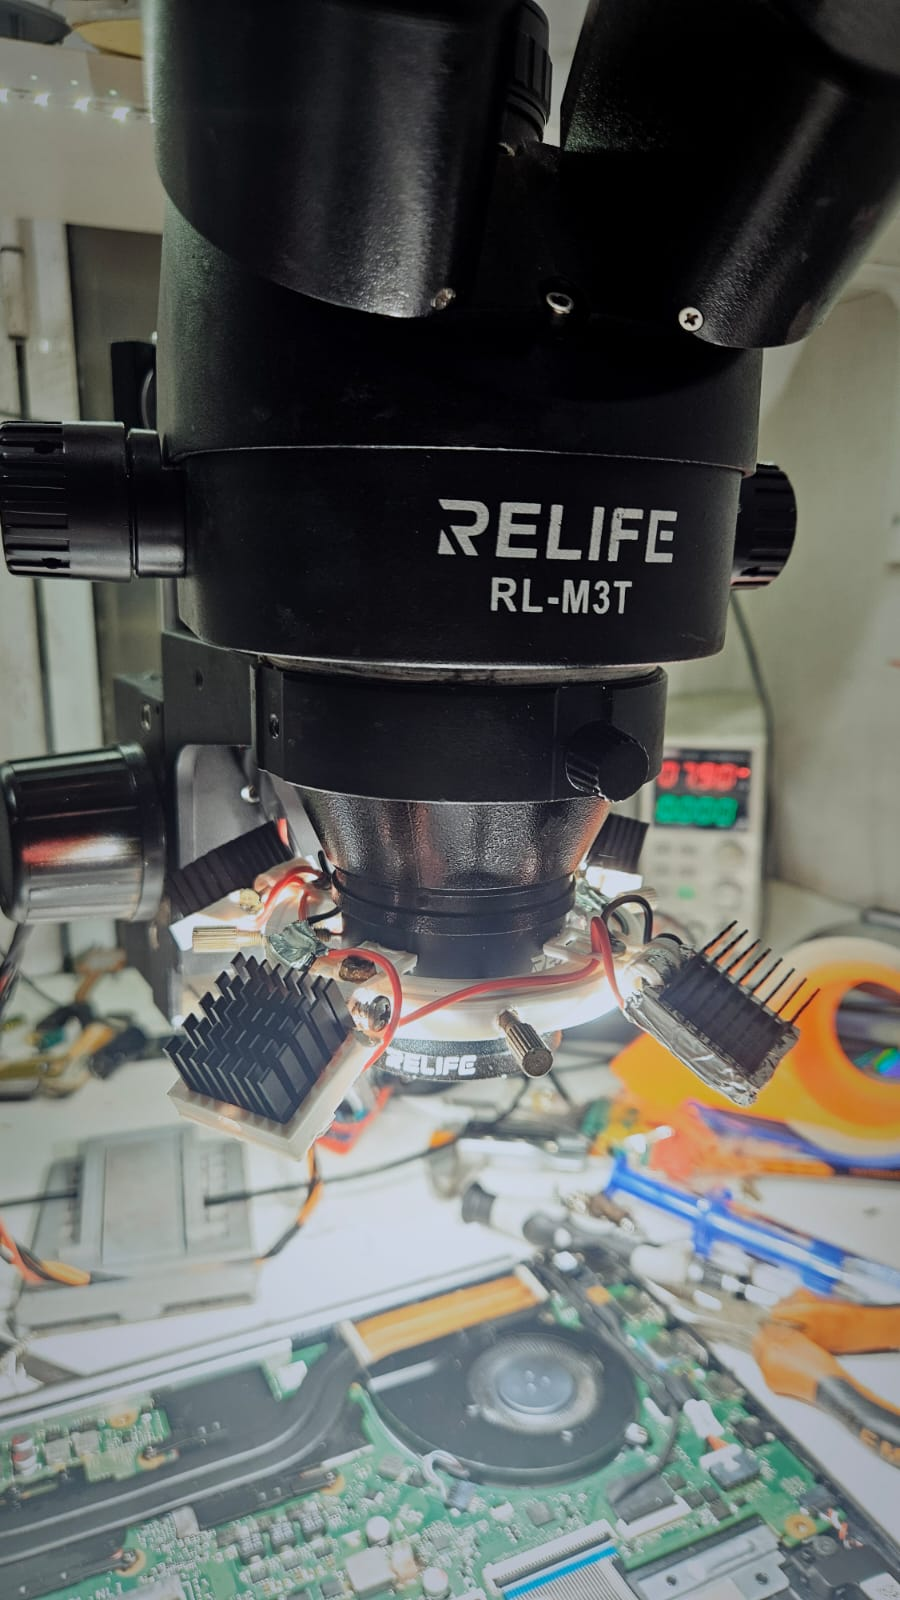
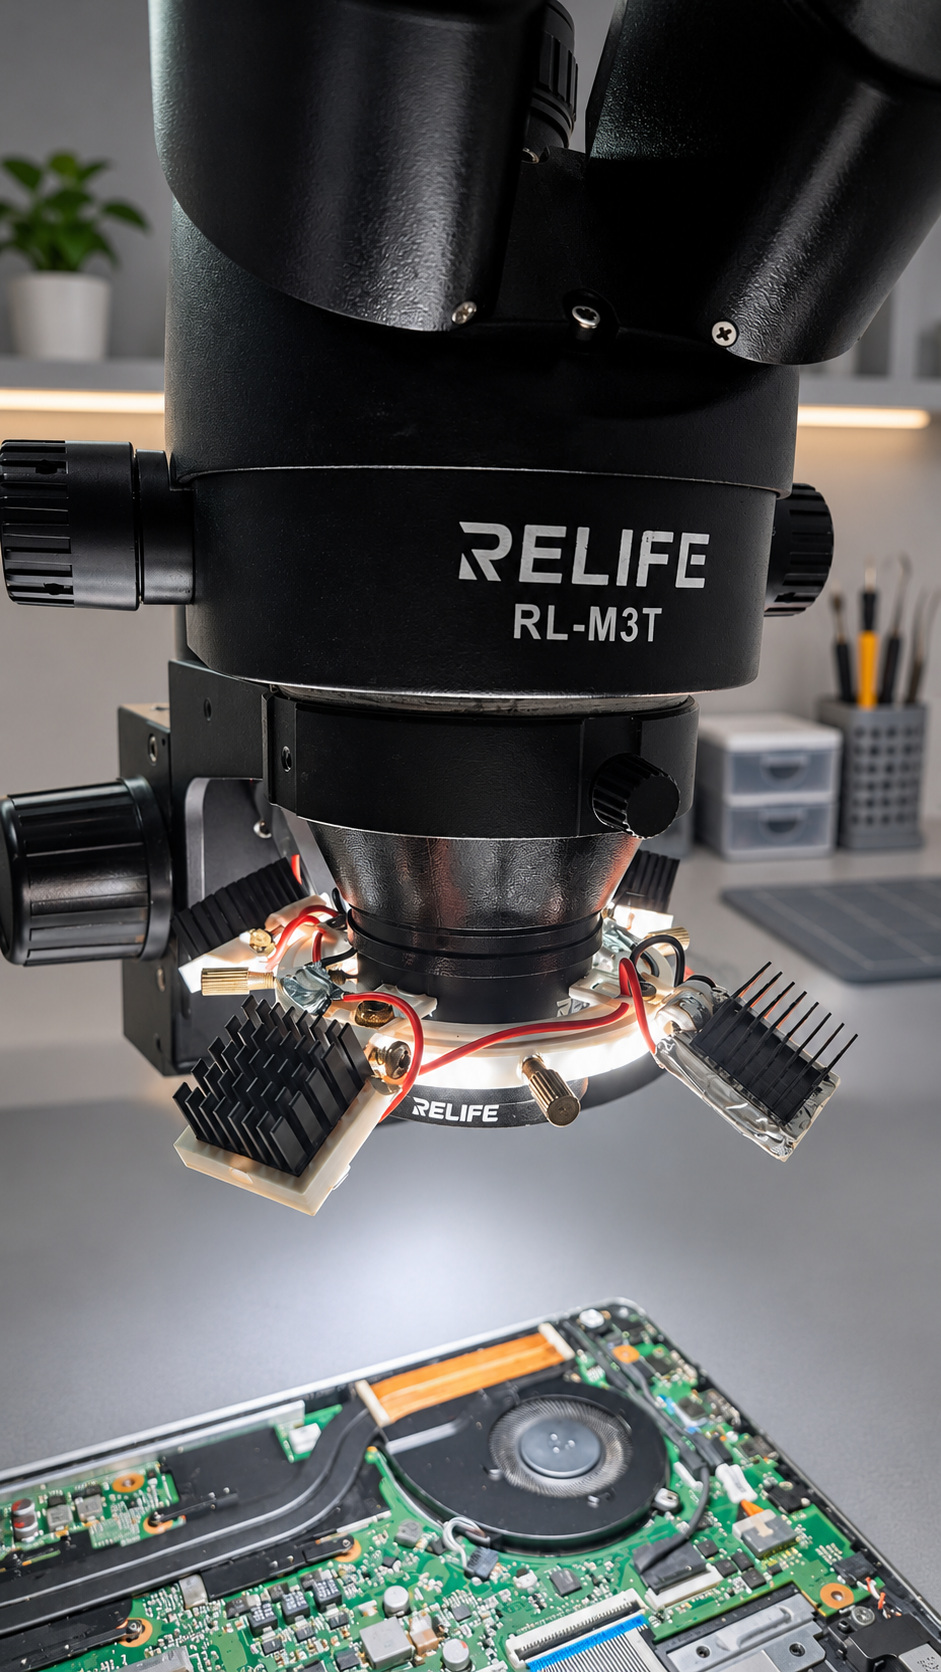
Photos: replace low-quality README image with high-resolution clean-background photo

diff --git a/docs/photos/README.md b/docs/photos/README.md
@@ -1,21 +1,15 @@
-# Fotografías originales y material visual
+# Fotografías del prototipo
 
-## Montaje real — fotografía original 900 × 1600
+## Presentación con fondo ordenado
 
-![Prototipo funcional montado en RELIFE RL-M3T](prototype-installed-relife-rl-m3t.jpg)
+![Prototipo RELIFE RL-M3T con iluminación de cuatro COB, fotografía retocada](prototype-installed-relife-rl-m3t.jpg)
 
-[Ver foto original completa](prototype-installed-relife-rl-m3t.jpg)
+La imagen principal **ha sido editada para limpiar el fondo**. Es una fotografía de presentación del montaje real; la edición del entorno no modifica la documentación técnica. La versión publicada es una exportación JPEG de alta calidad de **941 × 1672 px** a partir de la imagen editada por el autor.
 
-## Detalle del cabezal
+## Documentación adicional
 
-![Detalle de módulos LED y disipadores](prototype-closeup.jpg)
+![Detalle de los cuatro pods y disipadores](prototype-closeup.jpg)
 
-[Ver recorte en resolución completa](prototype-closeup.jpg)
+[Vista del ensamblaje CAD V0.20](v020-assembly-preview.png) · [Diagramas de conexiones eléctricas](../diagrams/electrical-wiring-four-channels.svg)
 
-Las fotografías proceden del montaje físico del autor. La vista `v020-assembly-preview.png` se genera automáticamente desde OpenSCAD.
-
-## Diagramas eléctricos de conexiones
-
-Los [diagramas SVG de los cuatro canales](../diagrams/electrical-wiring-four-channels.svg) y [de un canal con pinout](../diagrams/electrical-channel-and-pinout.svg) son **vectoriales y escalables**, sin borrosidad por ampliación.
-
-La [lámina de conexiones histórica original](../historical/historical-electrical-poster-original.png) es un diseño anterior: **no usar para fabricar sin revisar los valores y las conexiones** del [circuito de referencia](../../hardware/WIRING_ES.md).
+Los modelos CAD, los STL y los ensayos térmicos deben consultarse en sus carpetas específicas; la imagen editada no sustituye las pruebas de fabricación.
